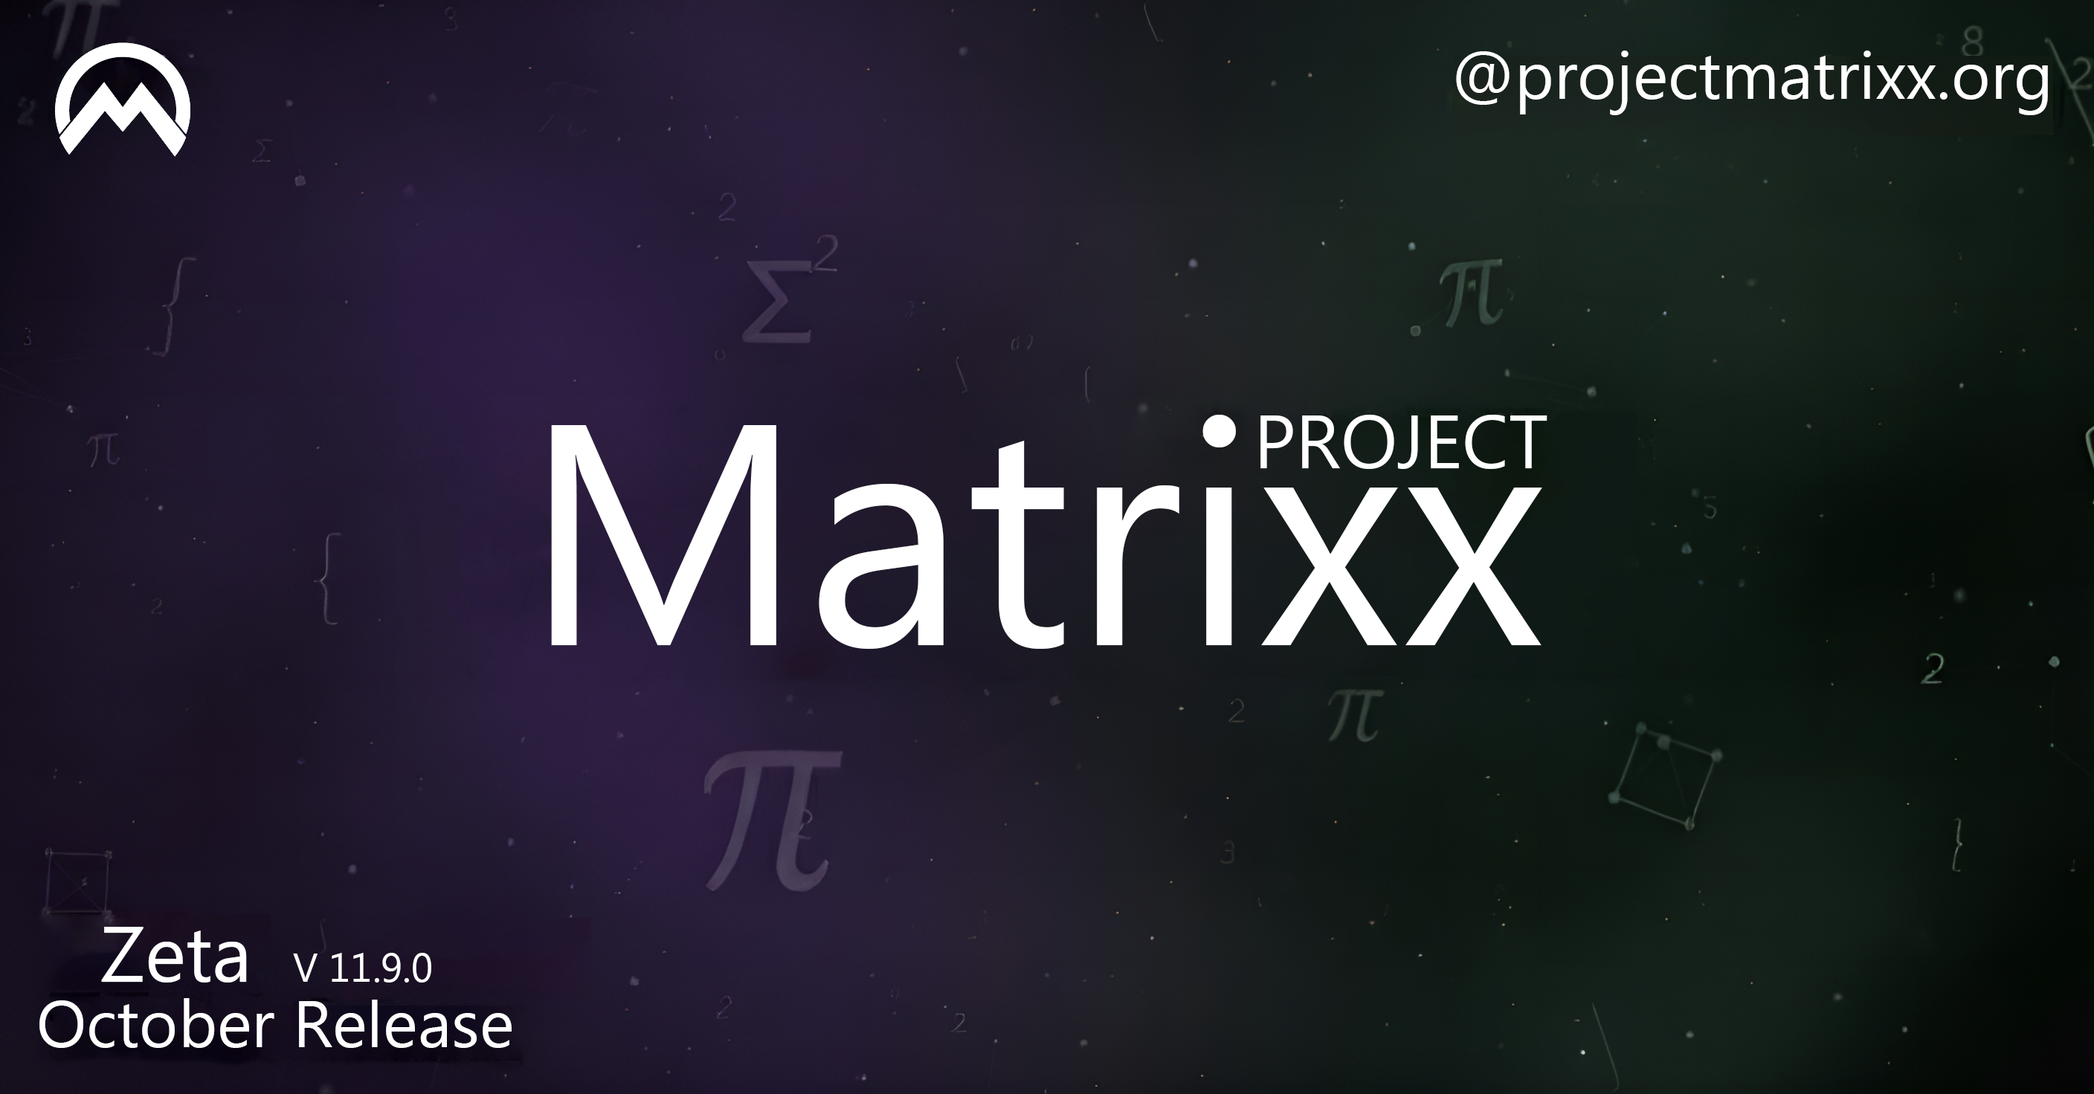
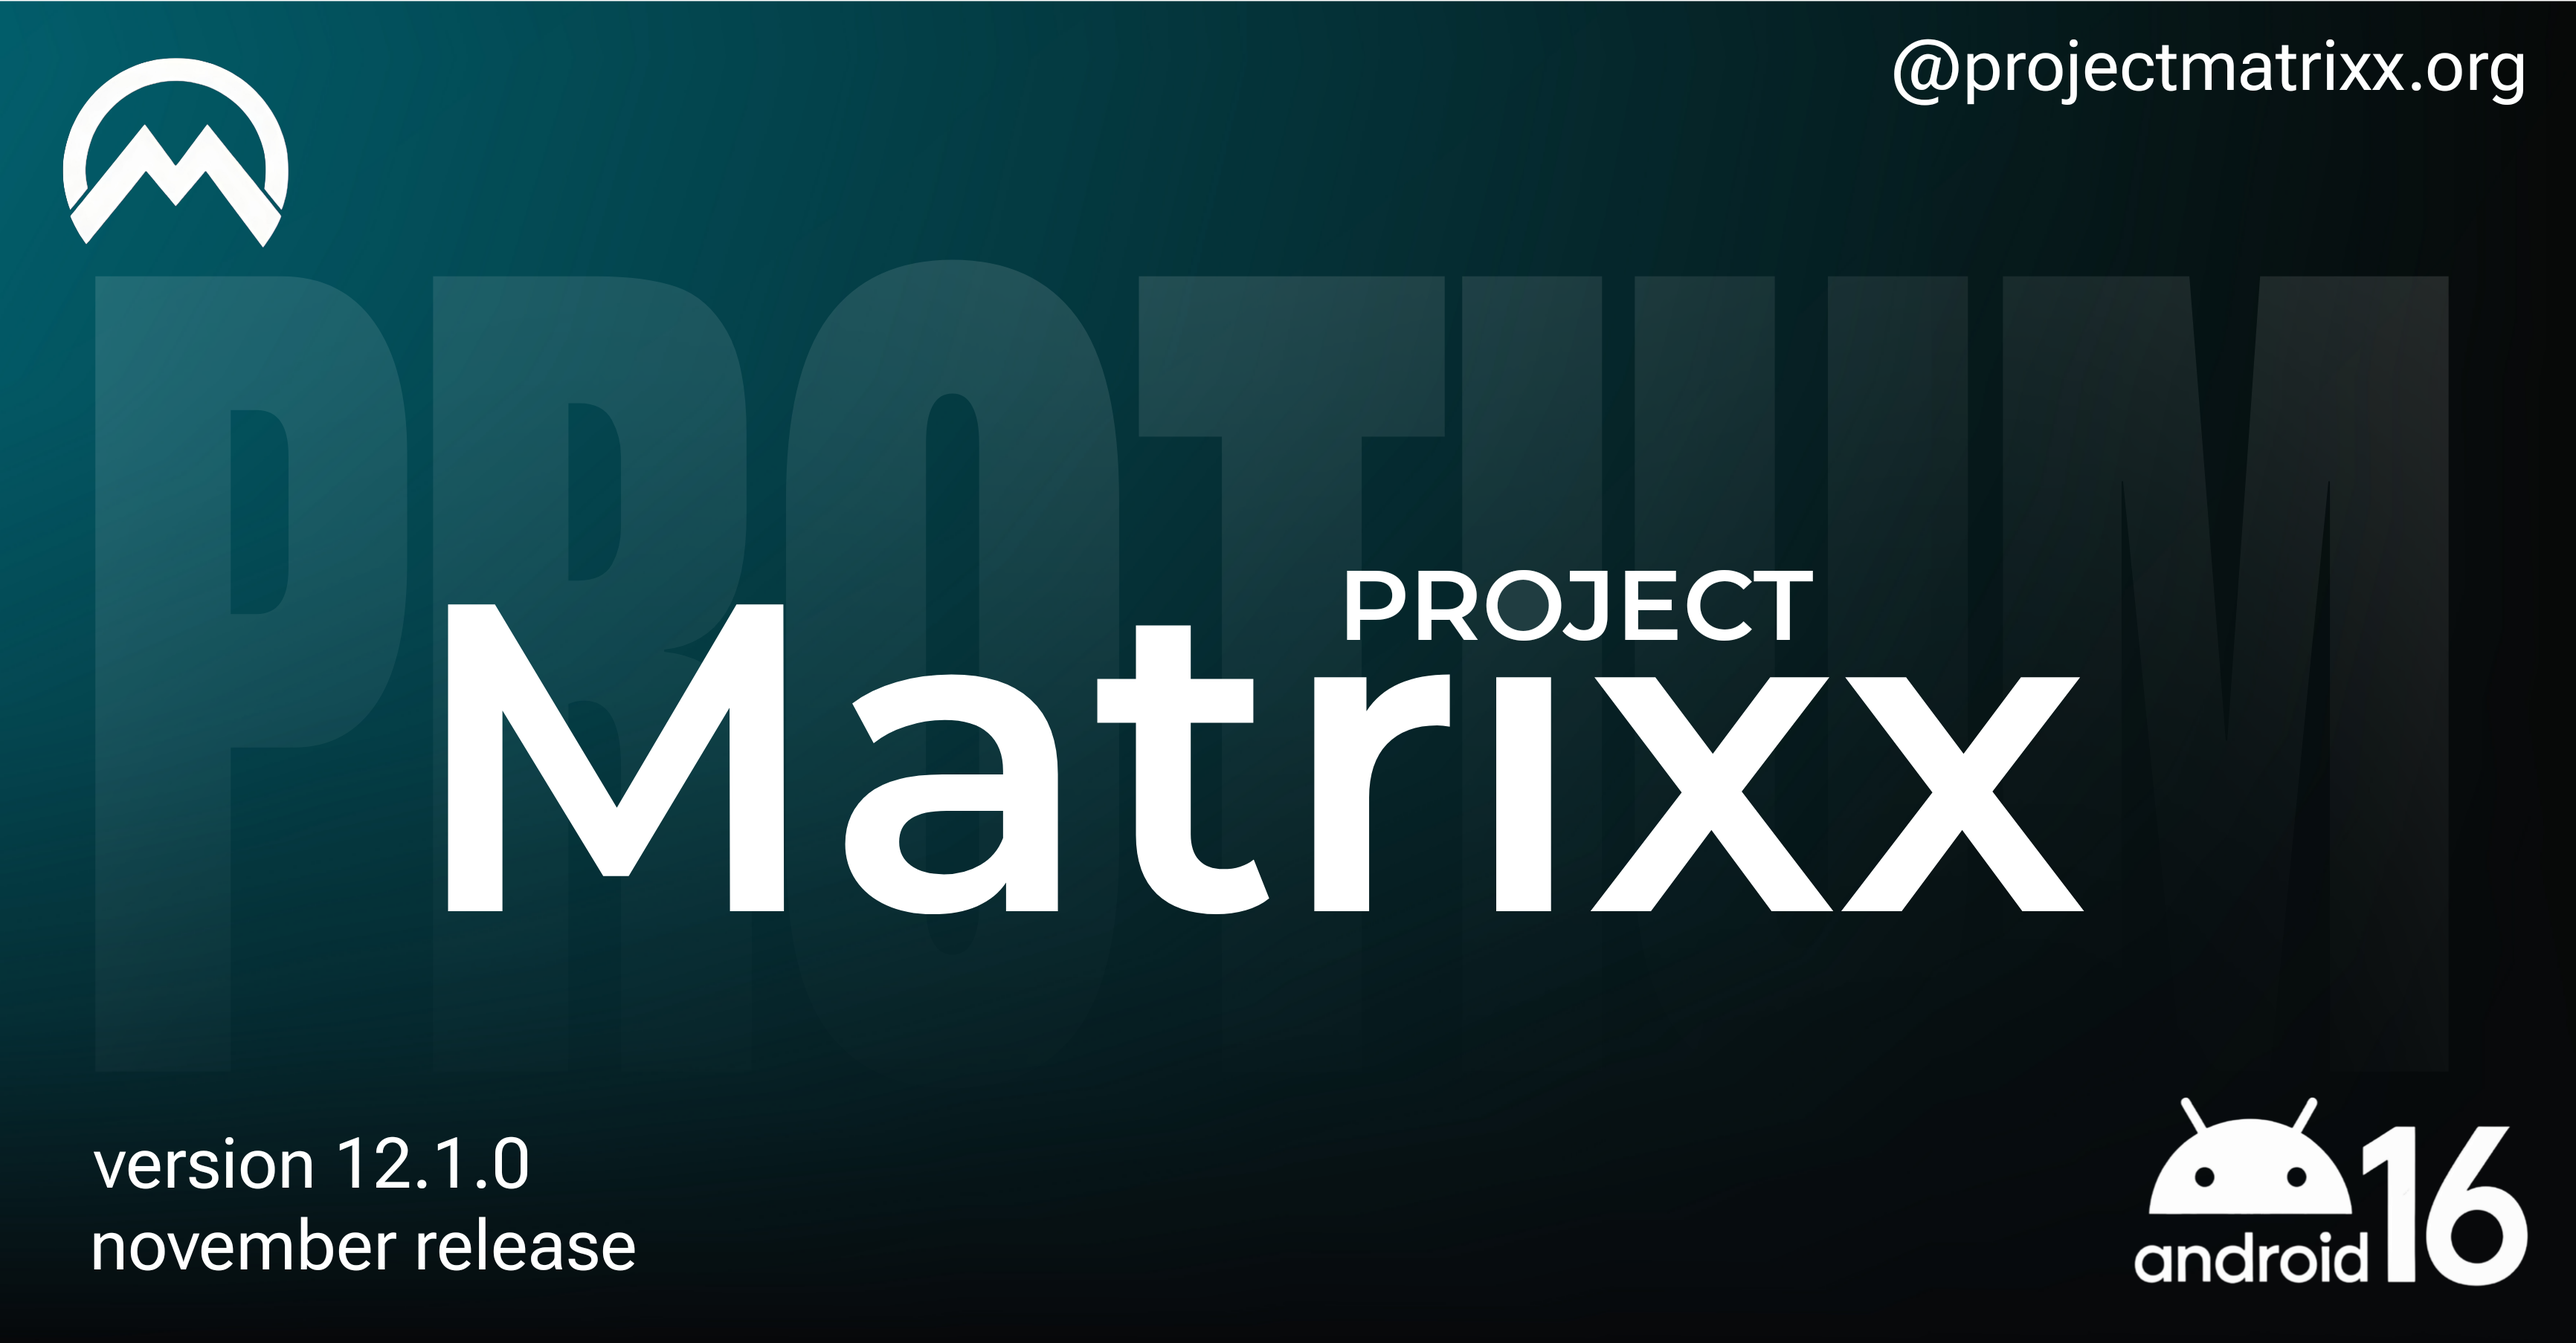
Matrixx 12.1.0 | Protium changelogs

diff --git a/changelogs/source_changelog.md b/changelogs/source_changelog.md
@@ -1,156 +1,2 @@
-# Matrixx v-11.9.0 (A15) Zeta Changelog 
-- October patch merged 
-- Fixed Freeform all app page opening in fullscreen
-- Fix memory leaks
-- Fix fingerprint crash in private space
-
-# Matrixx v-11.8.0 (A15) DELTΔ Changelog 
-- Sep patch merged 
-- Reduce the size of keyguard affordance 
-- Switch to pixel 10 pro xl for mainline spoofing 
-- Spoof playstore to mainline
-- Update Keybox spoofing & add default keybox in source (now you will get strong out of box)
-- Add an option to customize blur radius in Launcher
-
-# Matrixx v-11.7.0-EOL(A15) Tangent Changelog 
-- Fix unsupported qs tile icon crash
-- Fix flickering issue in streaming video cases
-- Backport back button fix from 16 QPR1 Beta 2.1
-- Fix vpn disconnects during package state changes
-- Fix dark mode schedule 
-- Fix crash in YT playback and YT music playback
-- Add Power off verify option
-- Bring back QuickSwitch
-- Fixed ringtone setup for secondary SIM slot
-- Fixed colors issue on QS for battery styles
-- Fixed QS color for circle battery styles 
-- Do not skip search animation for app icons 
-- Align icons vertically when labels are hidden
-- Cancel ongoing animations before entering All Apps 
-- Prevent wrapping of icons from icon packs 
-- Quickspace: Various improvements
-- Bring Back Opacity Customization in Launcher for Appdrawer and recent
-- August Patch
-
-# Matrixx v-11.6.0-Hotfix Trigon Changelog 
-- Fix App crashing on 1st click 
-- Fix random reboots when restarting device for some users 
-- Allow Icon Packs to change battery overlay
-- Added overlay path for battery in sam and victor icon pack
-- Launcher: import popup view icon from nothingOS
-- Launcher: update recent overview color in dark mode
-- Explicitly disable storage management preference (broken and show empty space)
-- Properly configure wallpaper for vanilla and Gapps builds
-- QS Clocks: Update OOS clock style
-- PPUtils:fixup spoofing logic
-- Allow disabling hdr display boost & allow changing HDR brightness intensity
-
-# Matrixx v-11.6.0 Trigon Changelog
-- Fix Clock glimpse issue when unlocking device
-- Fix custom clock overlapping on theme switch from light/dark
-- Fix default clock color stays white in light mode
-- Fix Clock size getting reset after system ui restart
-- Add keybox method to pass strog (get your own keys )
-- Fix lock/unlock app in launcher recent
-- Fix crash in HideAppListSettings when fragment is not attached
-- Legacy attestation spoofing changes
-- Fixup code for pif and game json file loading (now we don't need to click twice on same option to work)
-- Show a popup dialog upon usb connection
-- Set scrolling friction to 0.006f
-- Disable new carrier group mobile icons(fixes signal icon stays white in expanded qs)
-- Added toggle to switch between new revamp qs by google
-
-# Matrixx v-11.5.0 Radian Changelog
-- Added hide IME option, 
-- Ambient text and img customzations,
-- Fix volume pannel hapic switch, 
-- Fix comapct media player toggle, 
-- Conditionally remove SAF restrictions, 
-- Restart SystemUI on lockclock font select, 
-- Improve cutout force full screen, 
-- Remove extra padding in settings page v2 style,
-- Added compact status bar progress chip  style
-- Added Bypass charging support 
-- Added option to spoof encryption status 
-- Fixes and improvement
-- Fix recent button color
-- Fix clone app not appearing in app drawer
-- Bring back lens in recent button
-- Allow Settings or SUW to connect to insecure Enterprise networks
-
-# Matrixx v-11.4.0 Polar Changelog
-- Update source to A15 qpr2 
-- Add option to switch to A14 settings style 
-- Add option to switch settings search bar style to A14 
-- Integrate Avatar inside A15 searchbar (ps try to copy scamsung ig) 
-- Add power menu style 
-- Add notification style 
-- Make lock recent app option togglebale
-- Allow changing font for lockscreen clock
-- Added default game spoof prop for some games 
-- Added option to enable/disbale show media progress and control media playback from statusbar chip
-
-# Matrixx v-11.2.6 CARTESIAN Changelog
-- Implement Ongoing ProgressBar Chip and make it togglable
-- Introduce QuickSwitch
-- Add Ambient Customizations
-- Bring back Matrixx udfps icon
-- Implement Remove IME space under keyboard feature
-- Introduce AutoDimService
-- drop HTS switch
-- Add recent button for locking tasks to recents
-- Drop Share Button and bringback lens button in recent 
-- rework app scrim colors for launcher 
-- Introduce PowerOffAlarmService
-- Optimize launcher animations
-- Guard BCR and G(Dialer, Message, Phone) with flag
-
-# Matrixx v-11.2.5 CARTESIAN Changelog
-- Tweak the About phone a little
-- added option to show cpu - battery temp in ambient
-- add some more location exemption
-- disable some more usless services
-- Fixed lockscreen clock and weather padding for non smartspace users
-- Reducing tg scrolling lag
-- Try to reduce qs jitter
-- Fixed avatar picker crashing in vanilla build
-- Conditionally Support cinematic wallpaper in matrixx Launcher
-- Add include pixel overlays conditionally
-- redesign charging ripple
-- Set the entire screen recorder as default
-- Fix haptic feedback switch for volume slider (prev not applying on volume change through UI)
-- Make a Haptic on volume slider better
-- Add ability to resize qs clock and satus bar clock
-- Add a notch bar killer for the left notch device
-- Fix keyguard user avatar margins
-- Skip launcher overview scale animation on tablet (should fix 2/3 app size when switching app through recent)
-- Make zram info in recent optional
-- Update cyberpunk qs styles notification
-- Update Matrixx Launcher themed icons to pixel like
-- Improve contextual greeting messages a bit
-- Removed some ugly qs styles
-- Added flashlight intensity support (need device side support too)
-- Remove ability to set opacity in the launcher recent and app drawer also set default opacity value to 100
-
-**A big thanks to Crdroid**
-
-# Matrixx v-11.2.0 LEMMA Changelog
-- Added IOS-16 battery style
-- Added an option for setting Greeting Messages
-- Added Some qs header clocks styles 
-- Added hide developer option 
-- Added Hide app list
-- Added statausbar lyrics option 
-- Added idle manager
-- Added General Sans font 
-- Fixed color notification icon (Thanks to neobuddy)
-- Fixed less boring headsup (Thanks to neobuddy)
-- Fixed Qs dynamic color.
-- A lots of under the hood optimization
-
-**A big thanks to Crdroid**
-
-# Matrixx v-11.1.0 AXIOM Changelog
-- Initial android 15 release based on QPR1
-- Minimal UI adoption
-- Most of the A14 features added
+# Matrixx v-12.1.0 (A16-QPR0) Protium Changelog
+- Initial A16 release
